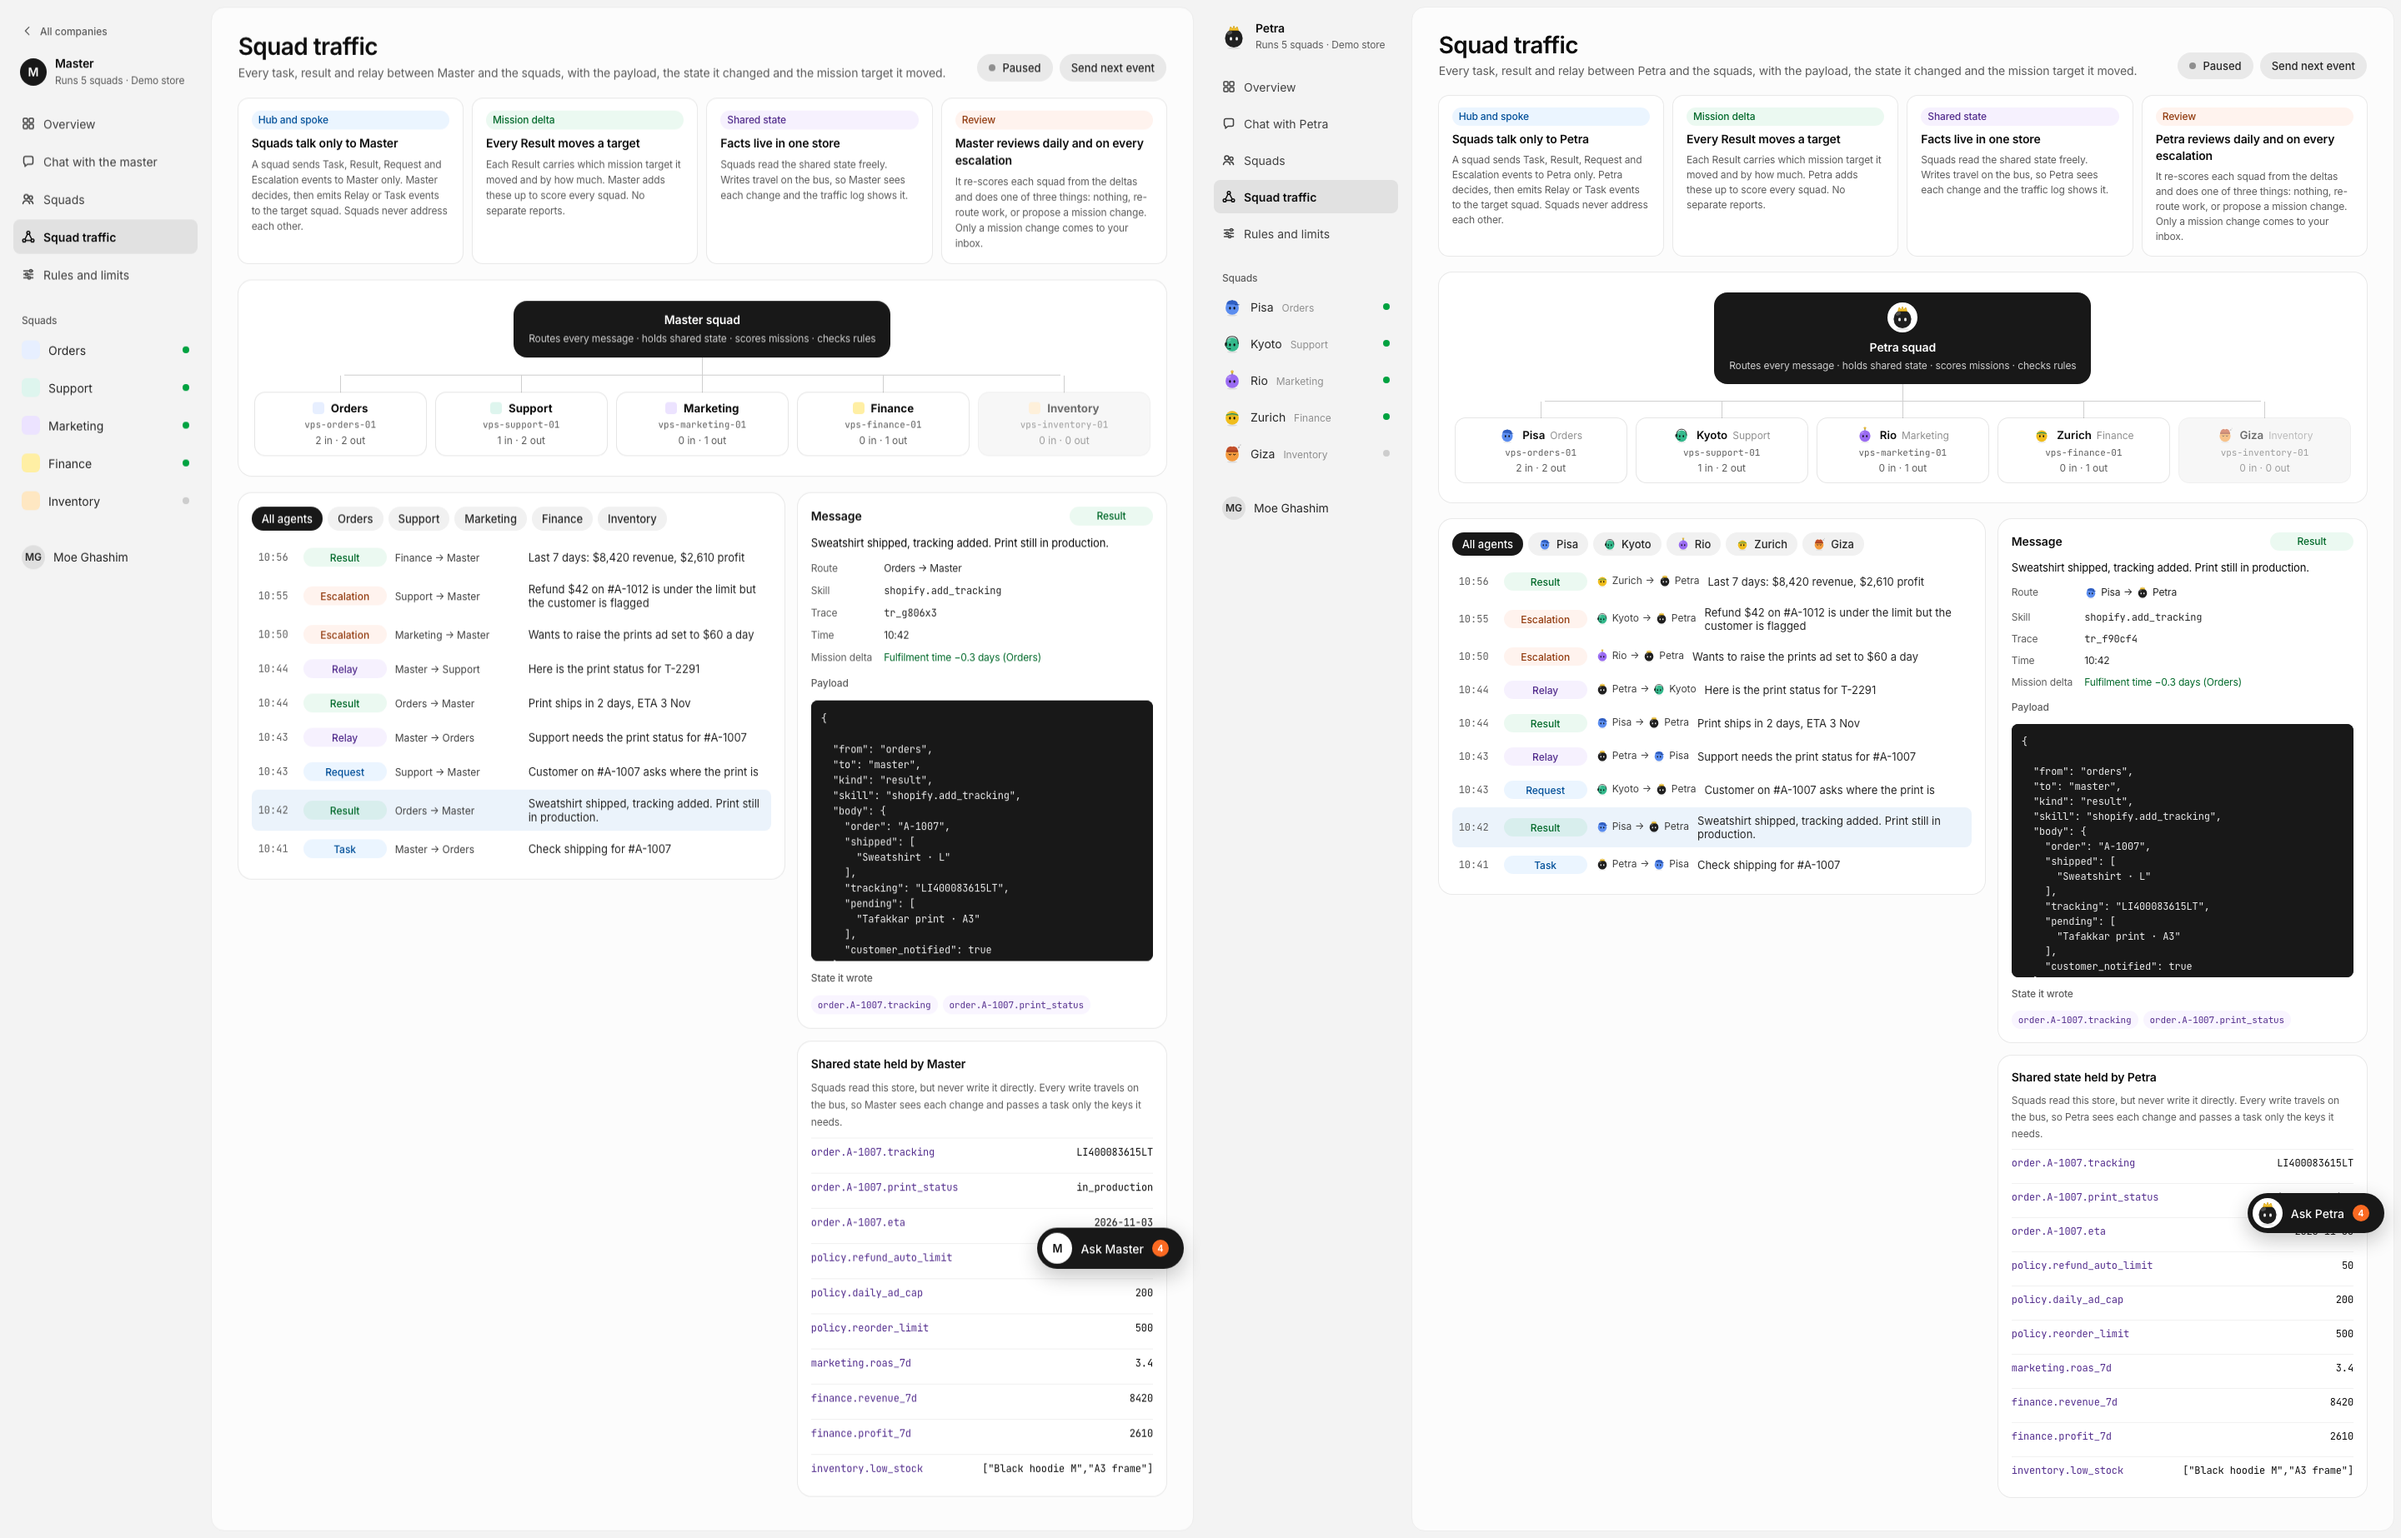
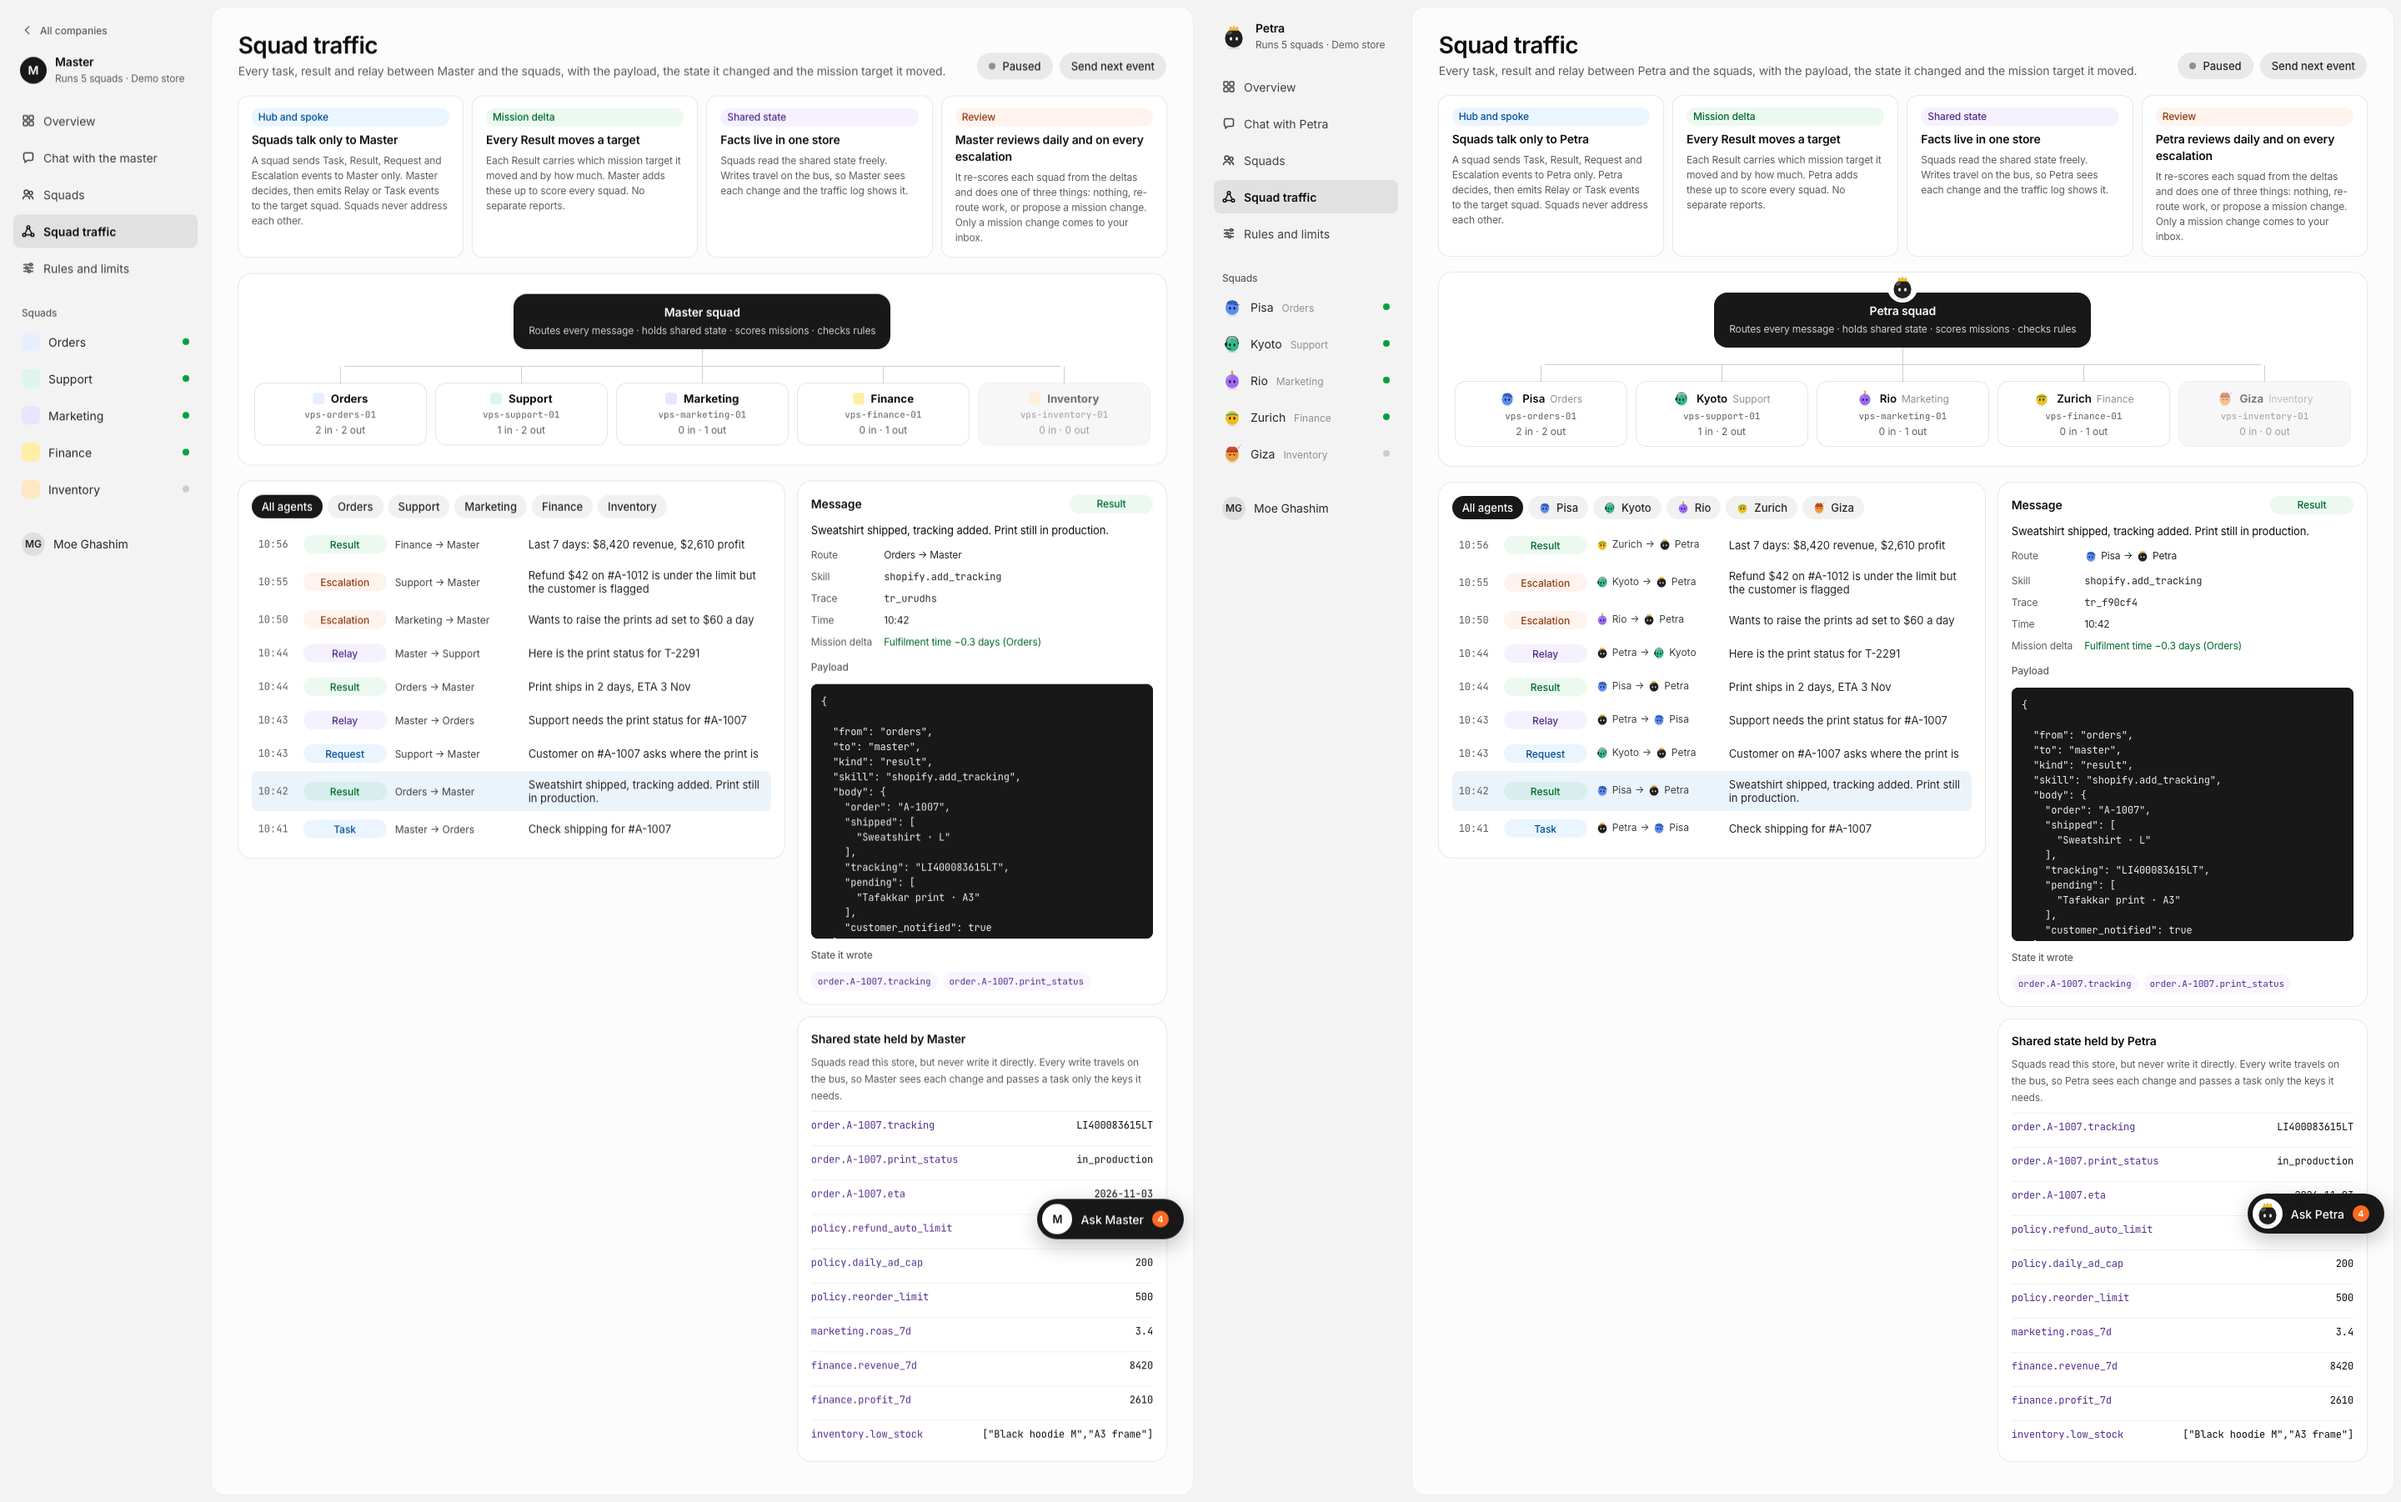
fix: keep the traffic card and route column on the design
Petra's traffic card keeps the two design text lines, so its height matches the design at 1440 and 390. The drawing sits on the top edge and does not add a row.

Traffic and the agent dashboard use the design's 150px route column, with the drawings inside it.

The gray-400 role tag stays. The axe exception is named and cites tasks/06-squadmates.md line 47.

Sign-up step 3 has screenshot and axe coverage at 1440 and 390.

diff --git a/e2e/traffic.spec.ts b/e2e/traffic.spec.ts
@@ -6,6 +6,7 @@ import { openPostgres, schema } from "@tensquads/adapters";
 import { and, asc, eq } from "drizzle-orm";
 import { compareInventory, inventoryHtml } from "../scripts/design-inventory.mjs";
 import { renderDesignMarkup } from "../scripts/render-design.mjs";
+import { squadmateRoleTagContrast } from "./accessibility-helper.ts";
 import { chipsThenOptions, rewriteBuiltInventory } from "./squadmate-copy.ts";
 import {
 	expectLabeledInputs,
@@ -240,6 +241,15 @@ test("the traffic boxes match the rendered design at 1440 and 390", async ({ pag
 			expectNear(built.listWidth, design.listWidth, `${board.name} list width`);
 			expectNear(built.listX, design.listX, `${board.name} list x`);
 			expectNear(built.inspectorX, design.inspectorX, `${board.name} inspector x`);
+			expectNear(built.masterHeight, design.masterHeight, `${board.name} master card height`);
+			expect(built.routeWidths.length).toBeGreaterThan(0);
+			expect(design.routeWidths.length).toBeGreaterThan(0);
+			for (const [index, width] of design.routeWidths.entries()) {
+				expectNear(width, 150, `${board.name} design route ${index} width`);
+			}
+			for (const [index, width] of built.routeWidths.entries()) {
+				expectNear(width, 150, `${board.name} route ${index} width`);
+			}
 		} finally {
 			await designPage.close();
 		}
@@ -397,6 +407,7 @@ test("the side-by-side evidence shows the design and the build", async ({ page, 
 });
 
 // The design pre scrolls and is not a tab stop. The off Inventory node is opacity 0.6, so its text falls under 4.5:1.
+// squadmateRoleTagContrast: tasks/06-squadmates.md line 47 keeps gray-400 (#8f8f8f) on these role tags.
 async function trafficViolations(page: Page) {
 	const skipped = ["color-contrast", "scrollable-region-focusable"];
 	const full = await new AxeBuilder({ page }).disableRules(skipped).analyze();
@@ -407,7 +418,7 @@ async function trafficViolations(page: Page) {
 	const contrast = await new AxeBuilder({ page })
 		.withRules(["color-contrast"])
 		.exclude("section[aria-label='Squad map'] button[style*='#f3f3f3']")
-		.exclude("[data-design-contrast='squadmate-role-tag']")
+		.exclude(`[data-design-contrast='${squadmateRoleTagContrast}']`)
 		.analyze();
 	return [...full.violations, ...scroll.violations, ...contrast.violations];
 }
@@ -594,8 +605,12 @@ async function measureTraffic(page: Page) {
 		const hubContent = hub.clientWidth - pixels(hubStyle.paddingLeft) - pixels(hubStyle.paddingRight);
 		const stem = boxOf(needed(hub.children[1] ?? null, "stem"));
 		const bar = boxOf(needed(hub.children[2] ?? null, "bar"));
+		const master = boxOf(needed(hub.children[0] ?? null, "master card"));
 		const row = needed(document.querySelector("[data-loop='busView'] button"), "event row");
 		const parts = [...row.children];
+		const routeWidths = [...document.querySelectorAll("[data-loop='busView'] button")].map(
+			(event) => boxOf(needed(event.children[2] ?? null, "route")).width,
+		);
 		const eventGap = boxOf(needed(parts[1] ?? null, "kind")).x - boxOf(needed(parts[0] ?? null, "time")).right;
 		const list = needed(document.querySelector("section[aria-label='Message log']"), "list");
 		const inspector = needed(document.querySelector("aside[aria-label='Message details']"), "inspector");
@@ -624,6 +639,8 @@ async function measureTraffic(page: Page) {
 			listX: listBox.x,
 			inspectorX: boxOf(inspector).x,
 			hubChildren: hub.children.length,
+			masterHeight: master.height,
+			routeWidths,
 		};
 	});
 }

diff --git a/apps/web/src/screens/traffic/page.tsx b/apps/web/src/screens/traffic/page.tsx
@@ -36,7 +36,7 @@ const ruleCard =
 const hubSection =
 	"background: #fff; border-radius: 16px; box-shadow: 0 0 0 1px rgba(13,13,13,.08); padding: 24px 20px; display: flex; flex-direction: column; align-items: center";
 const masterCard =
-	"background: #181818; color: #fff; border-radius: 16px; padding: 12px 18px; display: flex; flex-direction: column; align-items: center; gap: 2px; min-width: 220px";
+	"position: relative; background: #181818; color: #fff; border-radius: 16px; padding: 12px 18px; display: flex; flex-direction: column; align-items: center; gap: 2px; min-width: 220px; max-width: 100%";
 const hubGrid = "width: 100%; display: grid; grid-template-columns: repeat(auto-fit, minmax(150px, 1fr)); gap: 12px";
 const split = "display: flex; flex-wrap: wrap; gap: 16px; align-items: flex-start";
 const logSection =
@@ -124,12 +124,12 @@ export function TrafficPage({ data }: { readonly data: TrafficData }) {
 					<div style={css(masterCard)}>
 						<span
 							style={css(
-								"width: 36px; height: 36px; border-radius: 999px; background: #fff; display: inline-flex; align-items: center; justify-content: center",
+								"position: absolute; left: 50%; top: 12px; transform: translate(-50%, -100%); width: 36px; height: 36px; border-radius: 999px; background: #fff; display: inline-flex; align-items: center; justify-content: center",
 							)}
 						>
 							<Squadmate id="master" on size={32} />
 						</span>
-						<span style={css("font-weight: 600; margin-top: 6px")}>{data.masterName} squad</span>
+						<span style={css("font-weight: 600")}>{data.masterName} squad</span>
 						<span style={css("font-size: 12px; color: #cdcdcd")}>
 							Routes every message · holds shared state · scores missions · checks rules
 						</span>
@@ -194,7 +194,7 @@ export function TrafficPage({ data }: { readonly data: TrafficData }) {
 													{event.time}
 												</span>
 												<span style={css(view.kindStyle)}>{event.kind}</span>
-												<span style={css("font-size: 12px; color: #414141; flex: none")}>
+												<span style={css("font-size: 12px; color: #414141; width: 150px; flex: none")}>
 													<RouteFaces
 														from={event.from}
 														to={event.to}

diff --git a/e2e/agent-detail-support.ts b/e2e/agent-detail-support.ts
@@ -216,6 +216,7 @@ interface DetailBoxes {
 	readonly sandbox: Box | null;
 	readonly squadSwitch: Box | null;
 	readonly skillSwitch: Box | null;
+	readonly routeWidths: readonly number[];
 }
 
 function expectNear(actual: number, expected: number, label: string) {
@@ -266,6 +267,10 @@ export function expectDetail(built: DetailBoxes, design: DetailBoxes, name: stri
 	expectNear(built.squadSwitch?.height ?? 0, design.squadSwitch?.height ?? 0, `${name} squad switch height`);
 	expectNear(built.skillSwitch?.width ?? 0, design.skillSwitch?.width ?? 0, `${name} skill switch width`);
 	expectNear(built.skillSwitch?.height ?? 0, design.skillSwitch?.height ?? 0, `${name} skill switch height`);
+	expect(built.routeWidths.length).toBeGreaterThan(0);
+	for (const [index, width] of built.routeWidths.entries()) {
+		expectNear(width, 150, `${name} route ${index} width`);
+	}
 }
 
 function expectBox(built: Box | null, design: Box | null, label: string) {
@@ -316,6 +321,11 @@ export async function measureDetail(page: Page): Promise<DetailBoxes> {
 			sandbox: findBox("section[aria-label='Sandbox']"),
 			squadSwitch: findBox("button[aria-label='Squad running']"),
 			skillSwitch: findBox("button[aria-label='Skill enabled']"),
+			routeWidths: [...document.querySelectorAll("section[aria-label='Messages'] button")].map((event) => {
+				const route = event.children[2];
+				if (!route) throw new Error("route");
+				return boxOf(route).width;
+			}),
 		};
 	});
 }

diff --git a/e2e/accessibility-helper.ts b/e2e/accessibility-helper.ts
@@ -17,8 +17,13 @@ const designContrastFaults = [
 	"admin-coming-next",
 	"admin-online-pill",
 	"admin-offline-count",
-	"squadmate-role-tag",
 ] as const;
+
+// tasks/06-squadmates.md line 47 approves the grey role tag: the design's agent name beside the character.
+// The tag is gray-400, #8f8f8f, from design/ds/agent-ui/tokens.json. The design colour stays.
+// It is 3.23:1 on white and 2.91:1 on #f3f3f3, under 4.5:1. This named exception keeps that failure
+// visible to review. A contrast failure on any other element still fails the test.
+export const squadmateRoleTagContrast = "squadmate-role-tag";
 
 export async function accessibilityViolations(page: Page, disabledRules: readonly string[] = []) {
 	const scan = new AxeBuilder({ page });
@@ -30,6 +35,7 @@ export async function accessibilityViolations(page: Page, disabledRules: readonl
 	for (const name of designContrastFaults) {
 		contrast.exclude(`[data-design-contrast="${name}"]`);
 	}
+	contrast.exclude(`[data-design-contrast="${squadmateRoleTagContrast}"]`);
 	const remaining = await contrast.analyze();
 	return [...full.violations.filter((violation) => violation.id !== "color-contrast"), ...remaining.violations];
 }

diff --git a/e2e/signup.spec.ts b/e2e/signup.spec.ts
@@ -136,3 +136,18 @@ for (const viewport of viewports) {
 		await expect(page).toHaveScreenshot(`signup-${viewport.name}.png`, { fullPage: true });
 	});
 }
+
+for (const viewport of viewports) {
+	test(`sign-up squads at ${viewport.name}`, async ({ page }) => {
+		skipUnlessMacScreenshot();
+		await page.setViewportSize({ width: viewport.width, height: viewport.height });
+		await page.goto("/signup");
+		await page.getByRole("button", { name: /A new business/ }).click();
+		await page.getByRole("button", { name: "Choose my squads" }).click();
+		await expect(page.getByRole("heading", { name: "Your first squads for your business" })).toBeVisible();
+		await waitForScreenFonts(page);
+		await page.evaluate(() => document.fonts.ready);
+		await expectNoHorizontalScroll(page);
+		await expect(page).toHaveScreenshot(`signup-squads-${viewport.name}.png`, { fullPage: true });
+	});
+}

diff --git a/e2e/accessibility.spec.ts b/e2e/accessibility.spec.ts
@@ -12,3 +12,15 @@ for (const path of ["/", "/signup", "/signin"] as const) {
 		});
 	}
 }
+
+for (const viewport of viewports) {
+	test(`sign-up squads passes axe at ${viewport.name}`, async ({ page }) => {
+		await page.setViewportSize({ width: viewport.width, height: viewport.height });
+		await page.goto("/signup");
+		await page.getByRole("button", { name: /A new business/ }).click();
+		await page.getByRole("button", { name: "Choose my squads" }).click();
+		await expect(page.getByRole("heading", { name: "Your first squads for your business" })).toBeVisible();
+		await waitForScreenFonts(page);
+		expect(await accessibilityViolations(page)).toEqual([]);
+	});
+}

diff --git a/apps/web/src/screens/agent-detail/AgentDetailPage.tsx b/apps/web/src/screens/agent-detail/AgentDetailPage.tsx
@@ -417,7 +417,7 @@ function Messages({
 					>
 						<span style={css(`${mono}; font-size: 12px; color: #5d5d5d; width: 44px`)}>{event.time}</span>
 						<span style={css(event.kindStyle)}>{event.kind}</span>
-						<span style={css("font-size: 12px; color: #5d5d5d")}>
+						<span style={css("font-size: 12px; color: #5d5d5d; width: 150px; flex: none")}>
 							<RouteFaces
 								from={event.from}
 								to={event.to}
